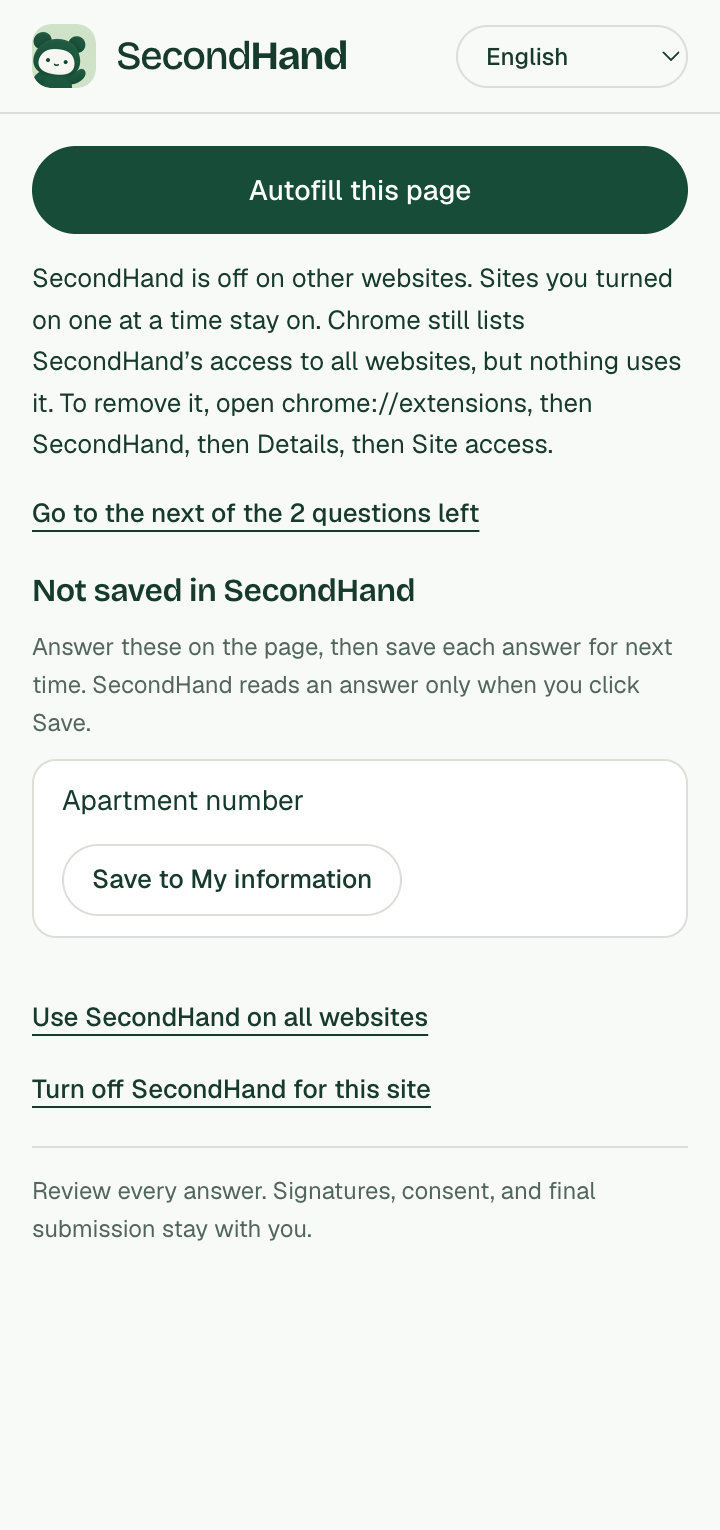
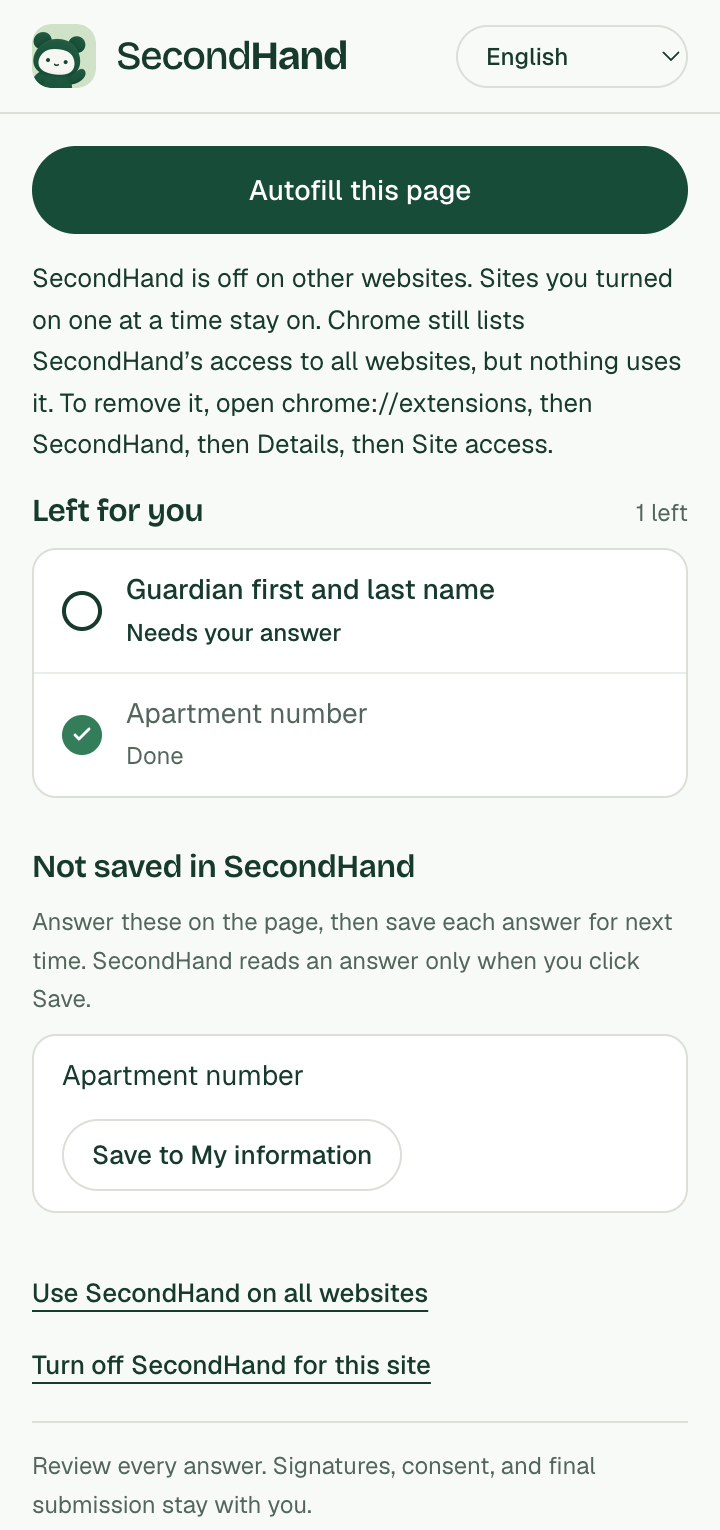
feat: name the questions left on other websites
After Autofill on a site other than Iowa's, the side panel said "Filled 5
· 1 left for you" and nothing about which one. It now lists each question
Autofill left under "Left for you", in the form's own words. A row
scrolls the form to its question, and turns to Done once the page reports
an answer in a box SecondHand may save.

The worker's fill result gains a list that names what its need-you keys
stand for: each key with the question's label from the plan it already
made. No answers and no new requests to the page or the app.

diff --git a/extension/panel.js b/extension/panel.js
@@ -332,6 +332,9 @@
     // The questions Autofill left for the reader, and which of them the link under the status goes to next.
     let left = [];
     let leftCursor = 0;
+    // On a page with no checklist, those questions by name, as the worker read them from the page.
+    let named = [];
+    let namedSignature = '';
     let site = null;
     let page = null;
     // The questions the last Autofill on this page could have filled but had no saved answer for.
@@ -452,7 +455,8 @@
       $('laya-status').hidden = !laya;
       $('laya-status').textContent = laya;
       $('panel-autofill').textContent = t(autopilot ? 'panel.stopAutofill' : 'panel.autofill');
-      $('panel-left').hidden = !target || !left.length;
+      // Where the questions left are listed by name, each row goes to its own.
+      $('panel-left').hidden = !target || !left.length || named.length > 0;
       $('panel-left').disabled = working;
       $('panel-left').textContent = t('panel.goToLeft', { count: left.length || 1 });
       $('panel-autofill').disabled = !target || (!fillable && !autopilot) || working;
@@ -462,12 +466,13 @@
       renderSummary();
     }
     function clearPage() {
-      fillable = false; autopilot = false; told = false; ran = false; left = []; leftCursor = 0; site = null; page = null; notSaved = []; checklistSignature = '';
+      fillable = false; autopilot = false; told = false; ran = false; left = []; leftCursor = 0; named = []; site = null; page = null; notSaved = []; checklistSignature = '';
       savable = []; savableSignature = '';
       $('page-checklist').replaceChildren();
       $('checklist-section').hidden = true;
       $('save-list').replaceChildren();
       $('save-section').hidden = true;
+      renderLeft();
       resetQuestions();
       resetSummary();
     }
@@ -516,6 +521,31 @@
       $('checklist-summary').textContent = !ran ? t('questions.count', { count: entries.length }) : left ? t('checklist.left', { count: left }) : t('checklist.noneLeft');
       $('checklist-note').hidden = !(ran && entries.some(item => item.status !== 'complete' && notSaved.includes(item.key)));
       $('checklist-section').hidden = !entries.length;
+    }
+    // A page with no checklist: one row per question Autofill left, in the page's own words. A row finds its question.
+    function renderLeft() {
+      const signature = JSON.stringify([language, named]);
+      if (signature !== namedSignature) {
+        namedSignature = signature;
+        $('left-list').replaceChildren(...named.map(item => {
+          const button = document.createElement('button');
+          button.type = 'button'; button.className = `checklist-item ${item.done ? 'complete' : 'missing'}`; button.dataset.leftKey = item.key;
+          const mark = document.createElement('span'); mark.className = 'checklist-mark'; mark.setAttribute('aria-hidden', 'true');
+          if (item.done) mark.append(checkMark());
+          const copy = document.createElement('span'); copy.className = 'checklist-copy';
+          const label = document.createElement('span'); label.className = 'checklist-label'; label.dir = 'auto'; label.textContent = item.label || t('left.unnamed');
+          const status = t(item.done ? 'checklist.complete' : 'checklist.missing');
+          const detail = document.createElement('span'); detail.className = 'checklist-detail'; detail.textContent = status;
+          copy.append(label, detail);
+          button.setAttribute('aria-label', t('left.rowLabel', { label: item.label || t('left.unnamed'), status }));
+          button.append(mark, copy);
+          button.addEventListener('click', trusted(() => { if (!button.disabled) focusField(item.key); }));
+          return button;
+        }));
+        const open = named.filter(item => !item.done).length;
+        $('left-summary').textContent = open ? t('checklist.left', { count: open }) : named.length ? t('checklist.noneLeft') : '';
+      }
+      $('left-section').hidden = !named.length;
     }
     // One row per question with no saved answer: its own words, then Save to My information once the page holds an answer.
     function renderSaves() {
@@ -567,6 +597,12 @@
       const listed = Array.isArray(page.checklist) ? page.checklist.filter(item => item && fieldKeys([item.key]).length) : [];
       const open = !ran ? [] : listed.length ? listed.filter(item => (item.required && item.status === 'missing') || item.status === 'manual').map(item => item.key) : fieldKeys(result.needYou);
       if (open.join() !== left.join()) { left = open; leftCursor = 0; }
+      // Only names for keys the result itself lists are read, and only where no checklist shows them already.
+      const names = new Map((Array.isArray(result?.left) ? result.left : []).filter(item => typeof item?.key === 'string' && typeof item.label === 'string').map(item => [item.key, fixedText(item.label.trim(), 200)]));
+      // The page says which of the questions it may save now hold an answer: those rows are done.
+      const answered = new Set(savable.filter(item => item.answered).map(item => item.id));
+      named = ran && !listed.length ? left.map(key => ({ key, label: names.get(key) || '', done: answered.has(key) })) : [];
+      renderLeft();
       const loading = target?.status === 'loading';
       if (site?.enabled && !site.ready) show({ key: loading ? 'panel.waitingLoad' : 'panel.reloadToRead' });
       else if (reported(result)) show(fromResult(result), result.state === 'error');
@@ -1008,7 +1044,7 @@
     function relabel() {
       applyStatic();
       $('language').value = language;
-      if (page) { renderChecklist(); renderSaves(); }
+      if (page) { renderChecklist(); renderLeft(); renderSaves(); }
       renderStatus();
       renderDesktop();
       resetQuestions();

diff --git a/extension/background.js b/extension/background.js
@@ -932,7 +932,8 @@ async function fillPlan(tabId, url, frames, { prefix = false, guard = () => {}, 
       for (const [id, option] of prepared.mapAnswers(answers.entries)) addLaya(id, { option });
     }
     let filled = 0, placedByLaya = 0;
-    const needYou = [], savable = [];
+    // `left` names what needYou lists, for the side panel: each key with the page's own label for its question.
+    const needYou = [], left = [], savable = [];
     for (const frame of initial) {
       const { frameId } = frame;
       let { plan, planned } = frame;
@@ -972,7 +973,12 @@ async function fillPlan(tabId, url, frames, { prefix = false, guard = () => {}, 
       }
       const missing = [...plan.unmatched, ...plan.matched].map(field => field.id);
       for (const [key, id] of refused) if (!missing.includes(id) && !plan.matched.some(field => field.key === key)) missing.push(id);
-      needYou.push(...missing.map(id => prefix ? `f${frameId}:${id}` : id));
+      const labels = new Map([...plan.unmatched, ...plan.matched].map(field => [field.id, typeof field.label === 'string' ? field.label.trim().slice(0, LABEL_LIMIT) : '']));
+      for (const id of missing) {
+        const key = prefix ? `f${frameId}:${id}` : id;
+        needYou.push(key);
+        left.push({ key, label: labels.get(id) || '' });
+      }
       // Questions the rules matched to a saved field with no saved answer: the side panel offers to save the applicant's own (#98).
       for (const field of plan.matched) {
         if (!SecondHandGeneric.SAVE_KEYS.includes(field.key) || !keys.includes(field.key) || (typeof values?.[field.key] === 'string' && values[field.key])) continue;
@@ -980,7 +986,7 @@ async function fillPlan(tabId, url, frames, { prefix = false, guard = () => {}, 
           label: typeof field.label === 'string' ? field.label.trim().slice(0, LABEL_LIMIT) : '' });
       }
     }
-    return { filled, needYou, savable, laya: placedByLaya, reason: prepared.reason };
+    return { filled, needYou, left, savable, laya: placedByLaya, reason: prepared.reason };
   } finally { values = null; questionTranslation.forget(); }
 }
 
@@ -1011,11 +1017,11 @@ async function fillSiteOnce(tabId, url, guesses) {
       const hosts = pending.map(frame => new URL(frame.origin).hostname).join(', ');
       return siteResult('waiting', say('worker.formInsideFrames', { hosts }));
     }
-    const { needYou, savable, laya: suggested, reason } = await fillPlan(tabId, url, frames, { prefix: true, laya });
+    const { needYou, left, savable, laya: suggested, reason } = await fillPlan(tabId, url, frames, { prefix: true, laya });
     keepSavable(tabId, url, siteOrigin(url), savable);
     const tally = await tallySite(tabId, frames);
     const filled = tally.rule + tally.guess;
-    return siteResult('done', siteSummary(filled, tally.guess, needYou, tally.next, suggested, reason), { filled, guessed: tally.guess, needYou, ...(suggested ? { laya: suggested } : {}) });
+    return siteResult('done', siteSummary(filled, tally.guess, needYou, tally.next, suggested, reason), { filled, guessed: tally.guess, needYou, left, ...(suggested ? { laya: suggested } : {}) });
   } catch (error) {
     const { state, ...message } = failed(error);
     return siteResult(state, message);
@@ -1026,9 +1032,9 @@ async function fillSiteOnce(tabId, url, guesses) {
 async function fillIowaGeneral(tabId, state, plan, guard, laya = null) {
   const { pageKey } = state.page;
   try {
-    const { filled, needYou, savable, laya: suggested, reason } = await fillPlan(tabId, state.url, [{ frameId: 0, plan }], { guard, laya });
+    const { filled, needYou, left, savable, laya: suggested, reason } = await fillPlan(tabId, state.url, [{ frameId: 0, plan }], { guard, laya });
     keepSavable(tabId, state.url, '', savable);
-    return { state: 'done', filled, needYou, ...say('result.thenTodo', { summary: withReason(withLaya(filledSummary(filled, needYou), suggested), reason), todo: { key: GENERAL_TODO, params: {} } }),
+    return { state: 'done', filled, needYou, left, ...say('result.thenTodo', { summary: withReason(withLaya(filledSummary(filled, needYou), suggested), reason), todo: { key: GENERAL_TODO, params: {} } }),
       todo: english(GENERAL_TODO), todoKey: GENERAL_TODO, todoParams: {}, pageKey, ...(suggested ? { laya: suggested } : {}) };
   } catch (error) {
     return { ...failed(error), filled: 0, needYou: [], pageKey };

diff --git a/extension/strings.js b/extension/strings.js
@@ -129,6 +129,9 @@
     'save.saving': 'Confirm in the SecondHand app to save your answer.',
     'save.saved': 'Saved to My information. SecondHand can fill it next time.',
     'checklist.rowLabel': '{label}: {status}. Find it in Iowa’s form.',
+    'left.title': 'Left for you',
+    'left.unnamed': 'A question with no label',
+    'left.rowLabel': '{label}: {status}. Find it in the form.',
 
     'questions.show': 'Show questions in English',
     'questions.refresh': 'Update the question list',
@@ -461,6 +464,9 @@
     'save.saving': 'Confirme en la aplicación SecondHand para guardar su respuesta.',
     'save.saved': 'Se guardó en “My information”. SecondHand podrá llenarla la próxima vez.',
     'checklist.rowLabel': '{label}: {status}. Búsquelo en el formulario de Iowa.',
+    'left.title': 'Por contestar',
+    'left.unnamed': 'Una pregunta sin etiqueta',
+    'left.rowLabel': '{label}: {status}. Búsquelo en el formulario.',
 
     'questions.show': 'Ver las preguntas en español',
     'questions.refresh': 'Actualizar la lista de preguntas',
@@ -790,6 +796,9 @@
     'save.saving': 'Hãy xác nhận trong ứng dụng SecondHand để lưu câu trả lời.',
     'save.saved': 'Đã lưu vào “My information”. Lần sau SecondHand có thể điền câu này.',
     'checklist.rowLabel': '{label}: {status}. Hãy tìm nó trong biểu mẫu của Iowa.',
+    'left.title': 'Còn lại cho bạn',
+    'left.unnamed': 'Một câu hỏi không có nhãn',
+    'left.rowLabel': '{label}: {status}. Hãy tìm nó trong biểu mẫu.',
 
     'questions.show': 'Xem các câu hỏi bằng tiếng Việt',
     'questions.refresh': 'Cập nhật danh sách câu hỏi',
@@ -1120,6 +1129,9 @@
     'save.saving': '请在 SecondHand 应用中确认以保存您的答案。',
     'save.saved': '已保存到“My information”。下次 SecondHand 可以填写它。',
     'checklist.rowLabel': '{label}：{status}。请在爱荷华州的表格中找到它。',
+    'left.title': '留给您的问题',
+    'left.unnamed': '没有标签的问题',
+    'left.rowLabel': '{label}：{status}。请在表格中找到它。',
 
     'questions.show': '用中文显示问题',
     'questions.refresh': '更新问题列表',
@@ -1450,6 +1462,9 @@
     'save.saving': 'Confirmez dans l’application SecondHand pour enregistrer votre réponse.',
     'save.saved': 'Enregistré dans « My information ». SecondHand pourra le remplir la prochaine fois.',
     'checklist.rowLabel': '{label} : {status}. Trouvez-le dans le formulaire de l’Iowa.',
+    'left.title': 'Il vous reste',
+    'left.unnamed': 'Une question sans libellé',
+    'left.rowLabel': '{label} : {status}. Trouvez-le dans le formulaire.',
 
     'questions.show': 'Afficher les questions en français',
     'questions.refresh': 'Mettre à jour la liste des questions',
@@ -1780,6 +1795,9 @@
     'save.saving': 'أكّد في تطبيق SecondHand لحفظ إجابتك.',
     'save.saved': 'تم الحفظ في “My information”. يمكن لـ SecondHand تعبئته في المرة القادمة.',
     'checklist.rowLabel': '{label}: {status}. ابحث عنه في نموذج أيوا.',
+    'left.title': 'المتبقي لك',
+    'left.unnamed': 'سؤال بلا تسمية',
+    'left.rowLabel': '{label}: {status}. ابحث عنه في النموذج.',
 
     'questions.show': 'عرض الأسئلة بالعربية',
     'questions.refresh': 'تحديث قائمة الأسئلة',

diff --git a/extension/panel.html b/extension/panel.html
@@ -55,6 +55,10 @@
       <button id="panel-left" class="text-button" type="button" hidden></button>
       <p id="iowa-policy" class="status" data-i18n="panel.iowaPolicy" hidden></p>
       <p id="laya-status" class="note" hidden></p>
+      <section id="left-section" class="checklist-section" hidden aria-labelledby="left-title">
+        <div class="fields-heading"><h2 id="left-title" data-i18n="left.title"></h2><span id="left-summary"></span></div>
+        <div id="left-list" class="page-checklist"></div>
+      </section>
       <section id="save-section" class="checklist-section" hidden aria-labelledby="save-title">
         <div class="fields-heading"><h2 id="save-title" data-i18n="save.title"></h2></div>
         <p class="save-hint" data-i18n="save.hint"></p>
